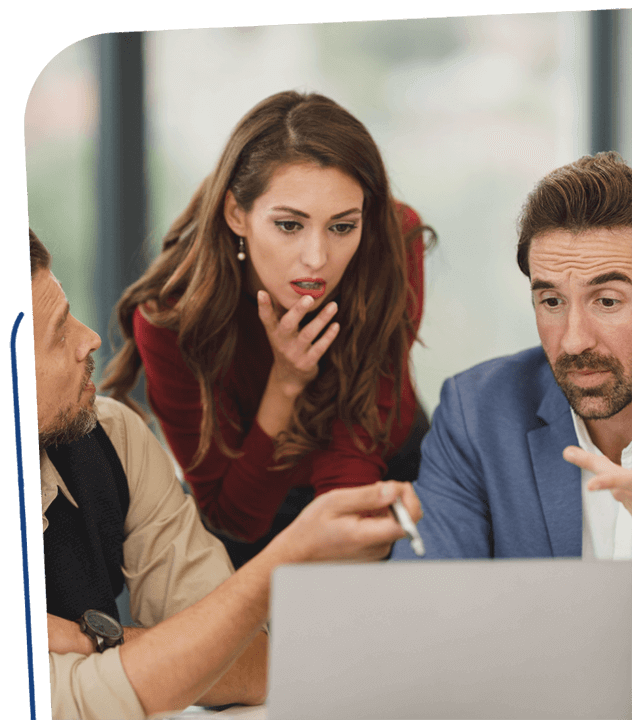
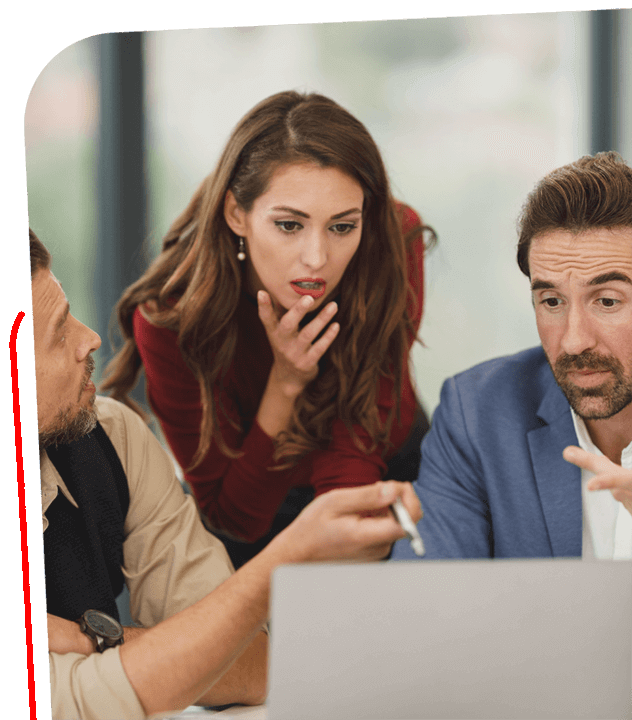
will change color pallet

Changed region(s): [[0.0, 0.4278, 0.0601, 1.0]]

diff --git a/tailwind.config.js b/tailwind.config.js
@@ -15,9 +15,9 @@ module.exports = {
             example2: ["var(--font-example2)"],
          },
          colors: {
-            primary: "#E74A3E",
-            secondary: "#244178",
-            secondaryLight: "#0050B8",
+            primary: "#2E3840",
+            secondary: "#FF0303",
+            secondaryLight: "#FD7171",
             tertiary: "#FF5732",
          },
       },
